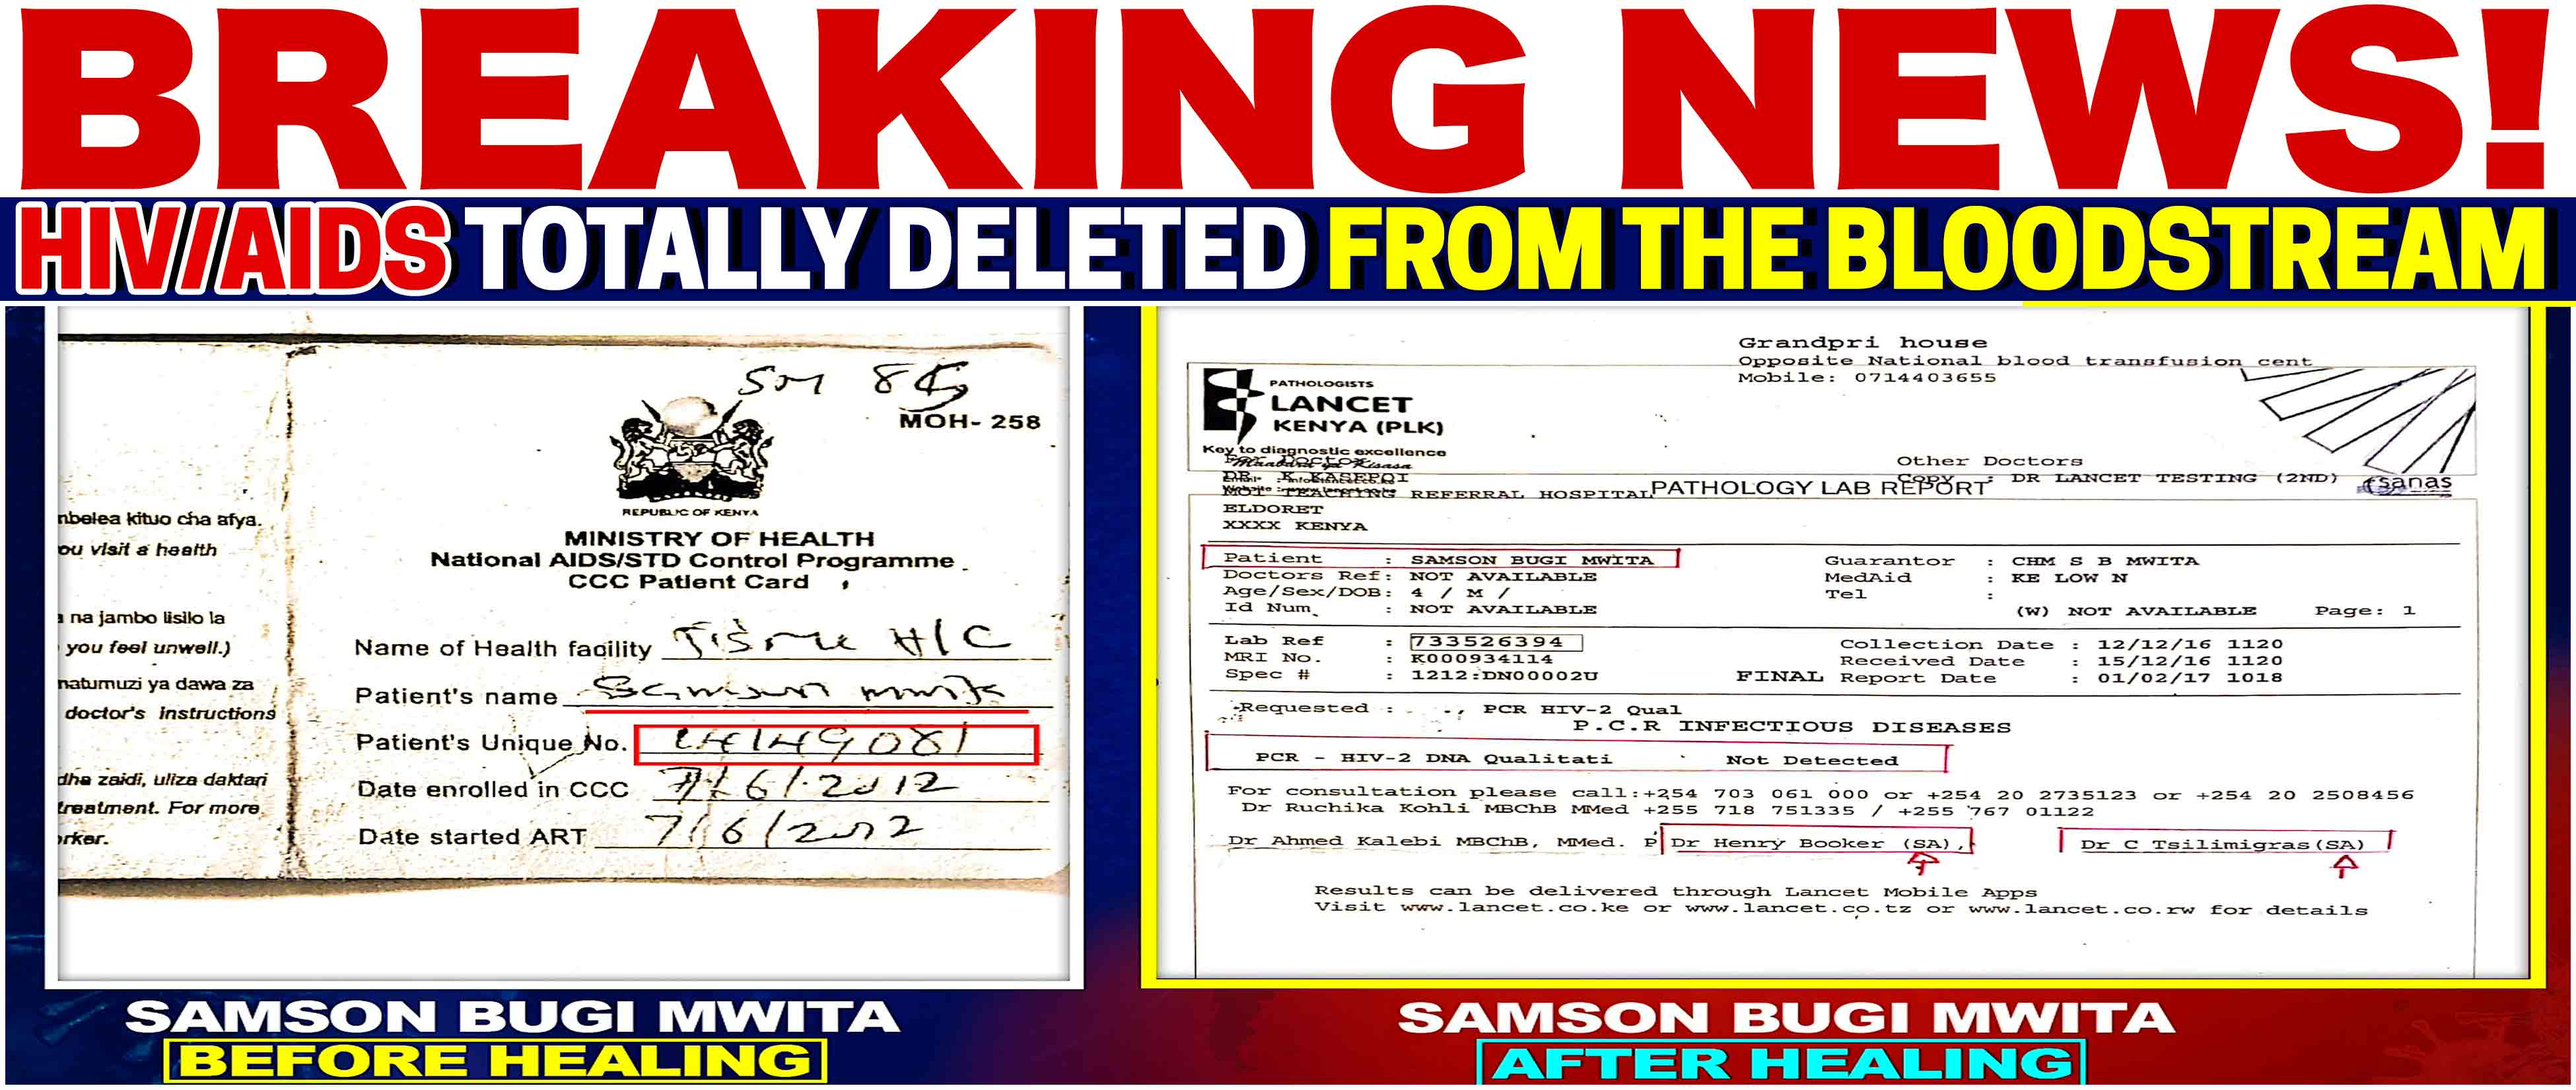
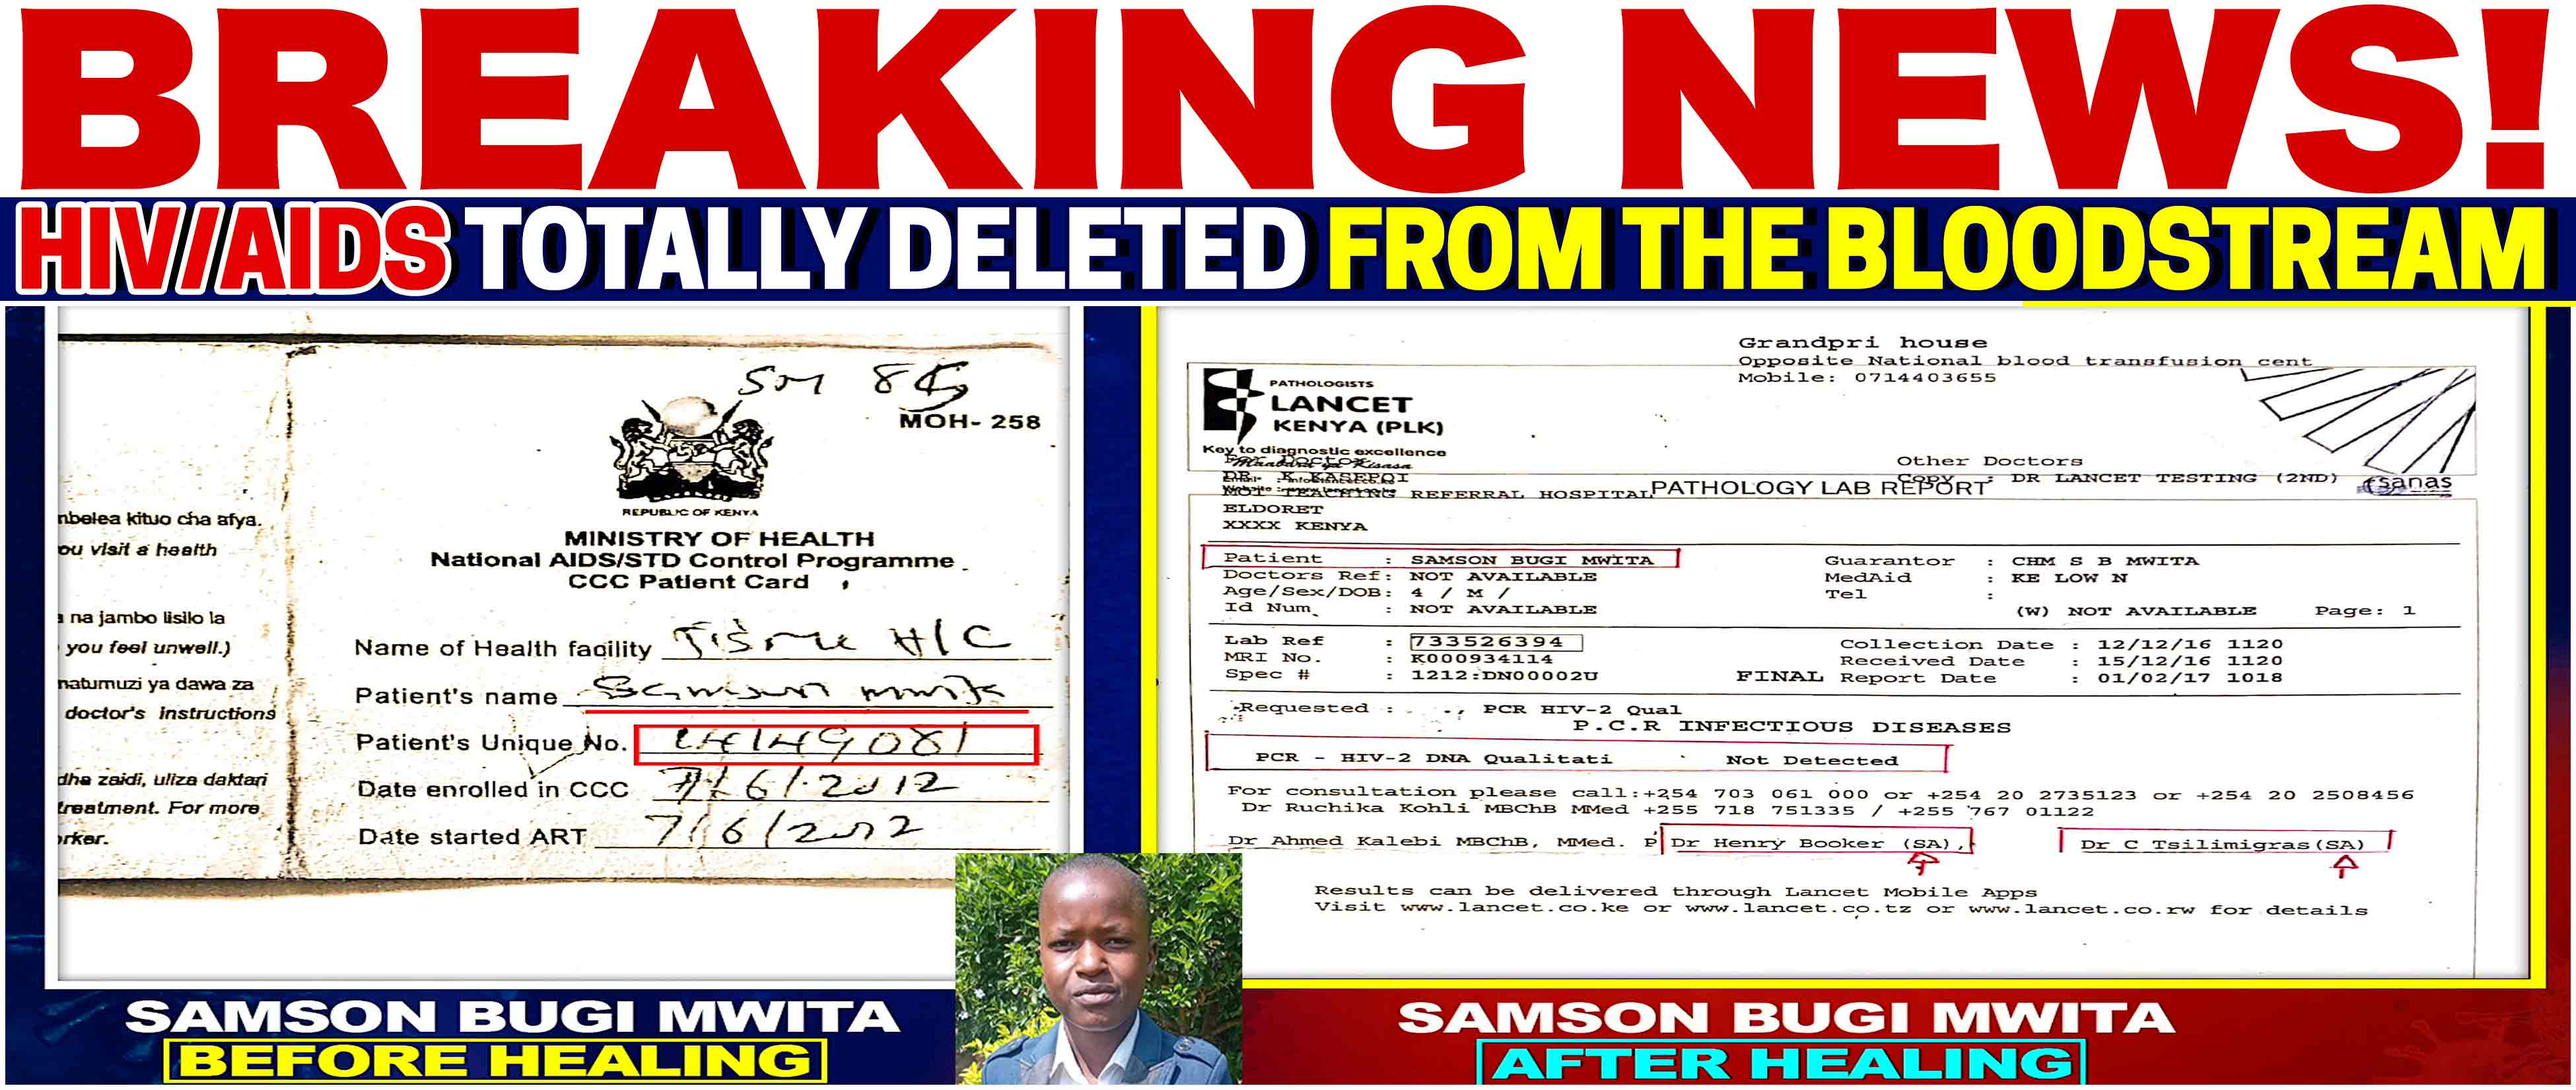
slides

Changed region(s): [[0.3722, 0.7718, 0.4963, 1.0]]

diff --git a/index.html b/index.html
@@ -22,9 +22,11 @@
 <img class="slideshow" src= "https://pub-9f92551086574e82abebdc7b9c83cf92.r2.dev/Menengai-8%20Thanksgiving/Healed/Sirengo-2.jpg" alt="Unstable internet, please refresh the browser">
 
 <img class="slideshow" src= "https://pub-9f92551086574e82abebdc7b9c83cf92.r2.dev/Menengai-8%20Thanksgiving/Healed/Sirengo-2.jpg" alt="Unstable internet, please refresh the browser">
+<img class="slideshow" src= "https://pub-9f92551086574e82abebdc7b9c83cf92.r2.dev/Menengai-8%20Thanksgiving/Healed/Sirengo-consent.jpg" alt="Unstable internet, please refresh the browser">
+<img class="slideshow" src= "https://pub-9f92551086574e82abebdc7b9c83cf92.r2.dev/Menengai-8%20Thanksgiving/Healed/Sirengo-consent.jpg" alt="Unstable internet, please refresh the browser">
 
 <img class="slideshow" src= "https://pub-9f92551086574e82abebdc7b9c83cf92.r2.dev/Menengai-8%20Thanksgiving/Healed/BUGI.jpg" alt="Unstable internet, please refresh the browser">
-<img class="slideshow" src= "https://pub-9f92551086574e82abebdc7b9c83cf92.r2.dev/Menengai-8%20Thanksgiving/Healed/BUGI.jpg" alt="Unstable internet, please refresh the browser">
+<img class="slideshow" src= "https://pub-9f92551086574e82abebdc7b9c83cf92.r2.dev/Menengai-8%20Thanksgiving/Healed/BUGI-DOCUMENTS.jpg" alt="Unstable internet, please refresh the browser">
 
 <img class="slideshow" src= "https://pub-9f92551086574e82abebdc7b9c83cf92.r2.dev/Menengai-8%20Thanksgiving/Doctors/Doctors-4.jpg" alt="Unstable internet, please refresh the browser">
 <img class="slideshow" src= "https://pub-9f92551086574e82abebdc7b9c83cf92.r2.dev/Menengai-8%20Thanksgiving/Doctors/Doctors-3.jpg" alt="Unstable internet, please refresh the browser">
